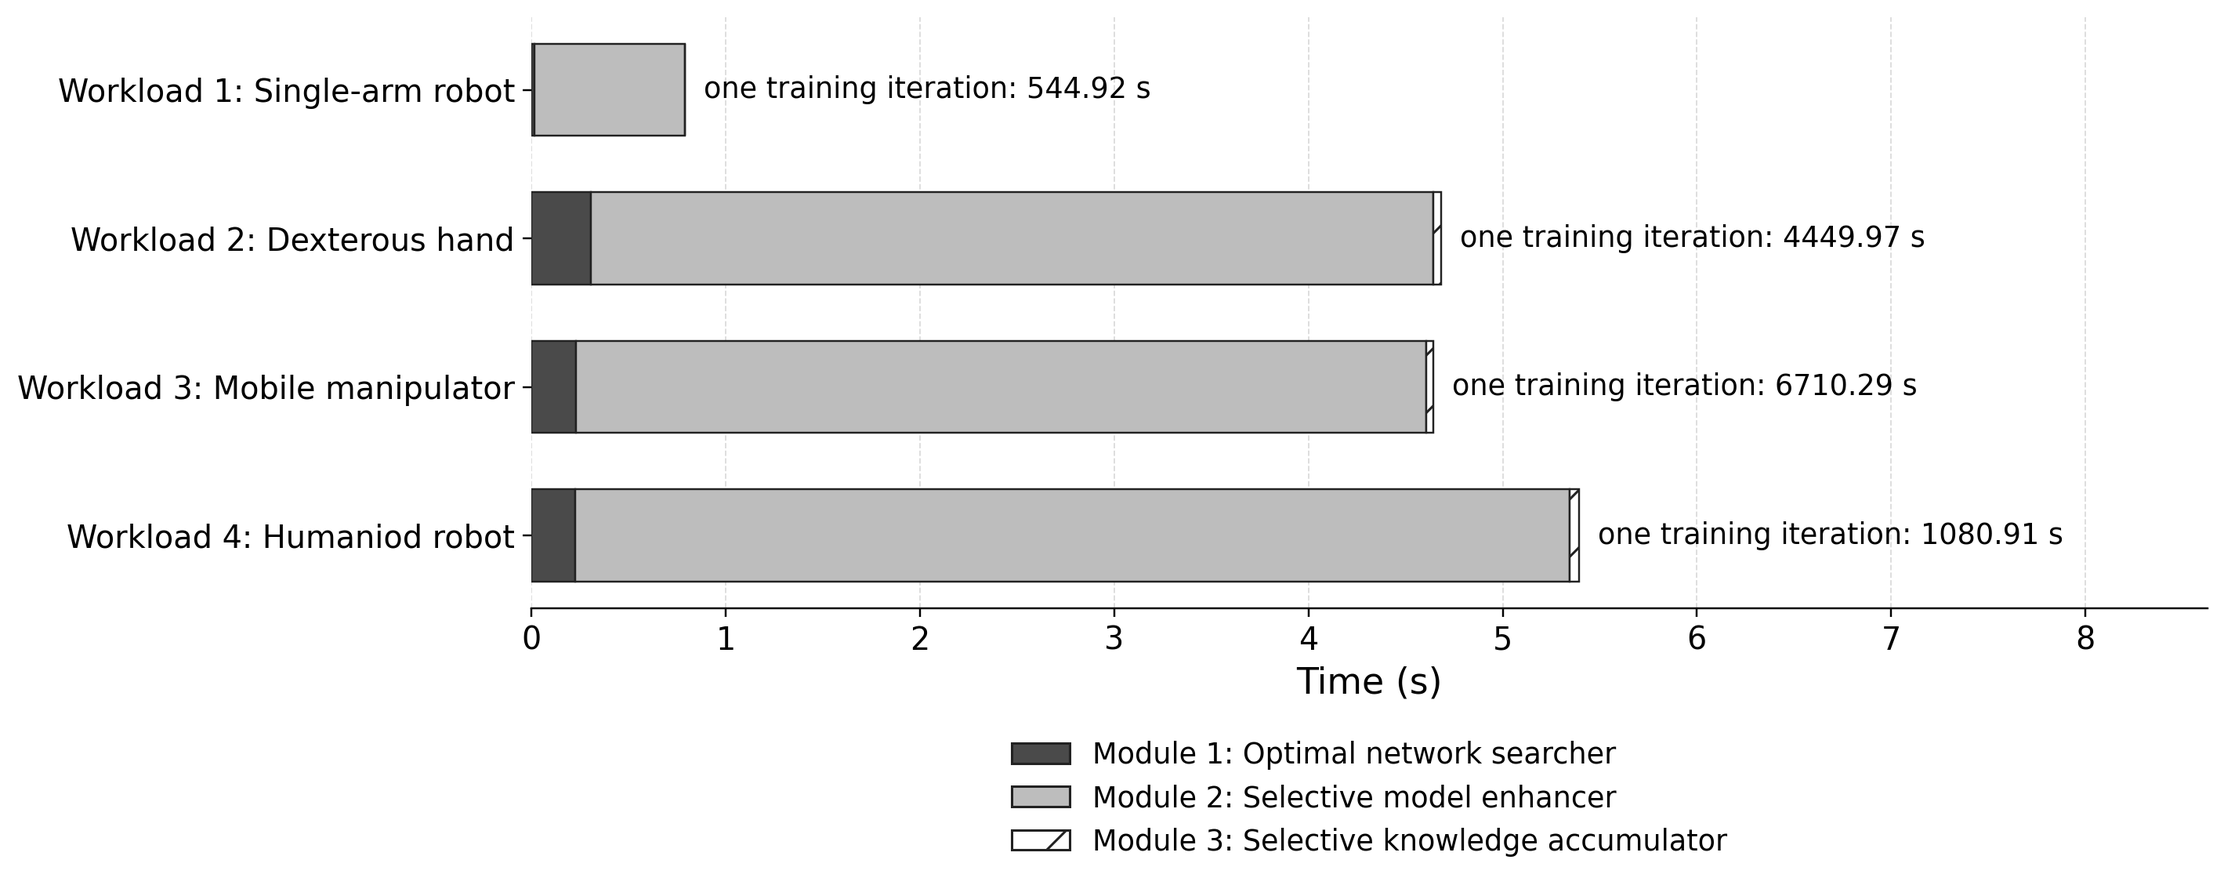
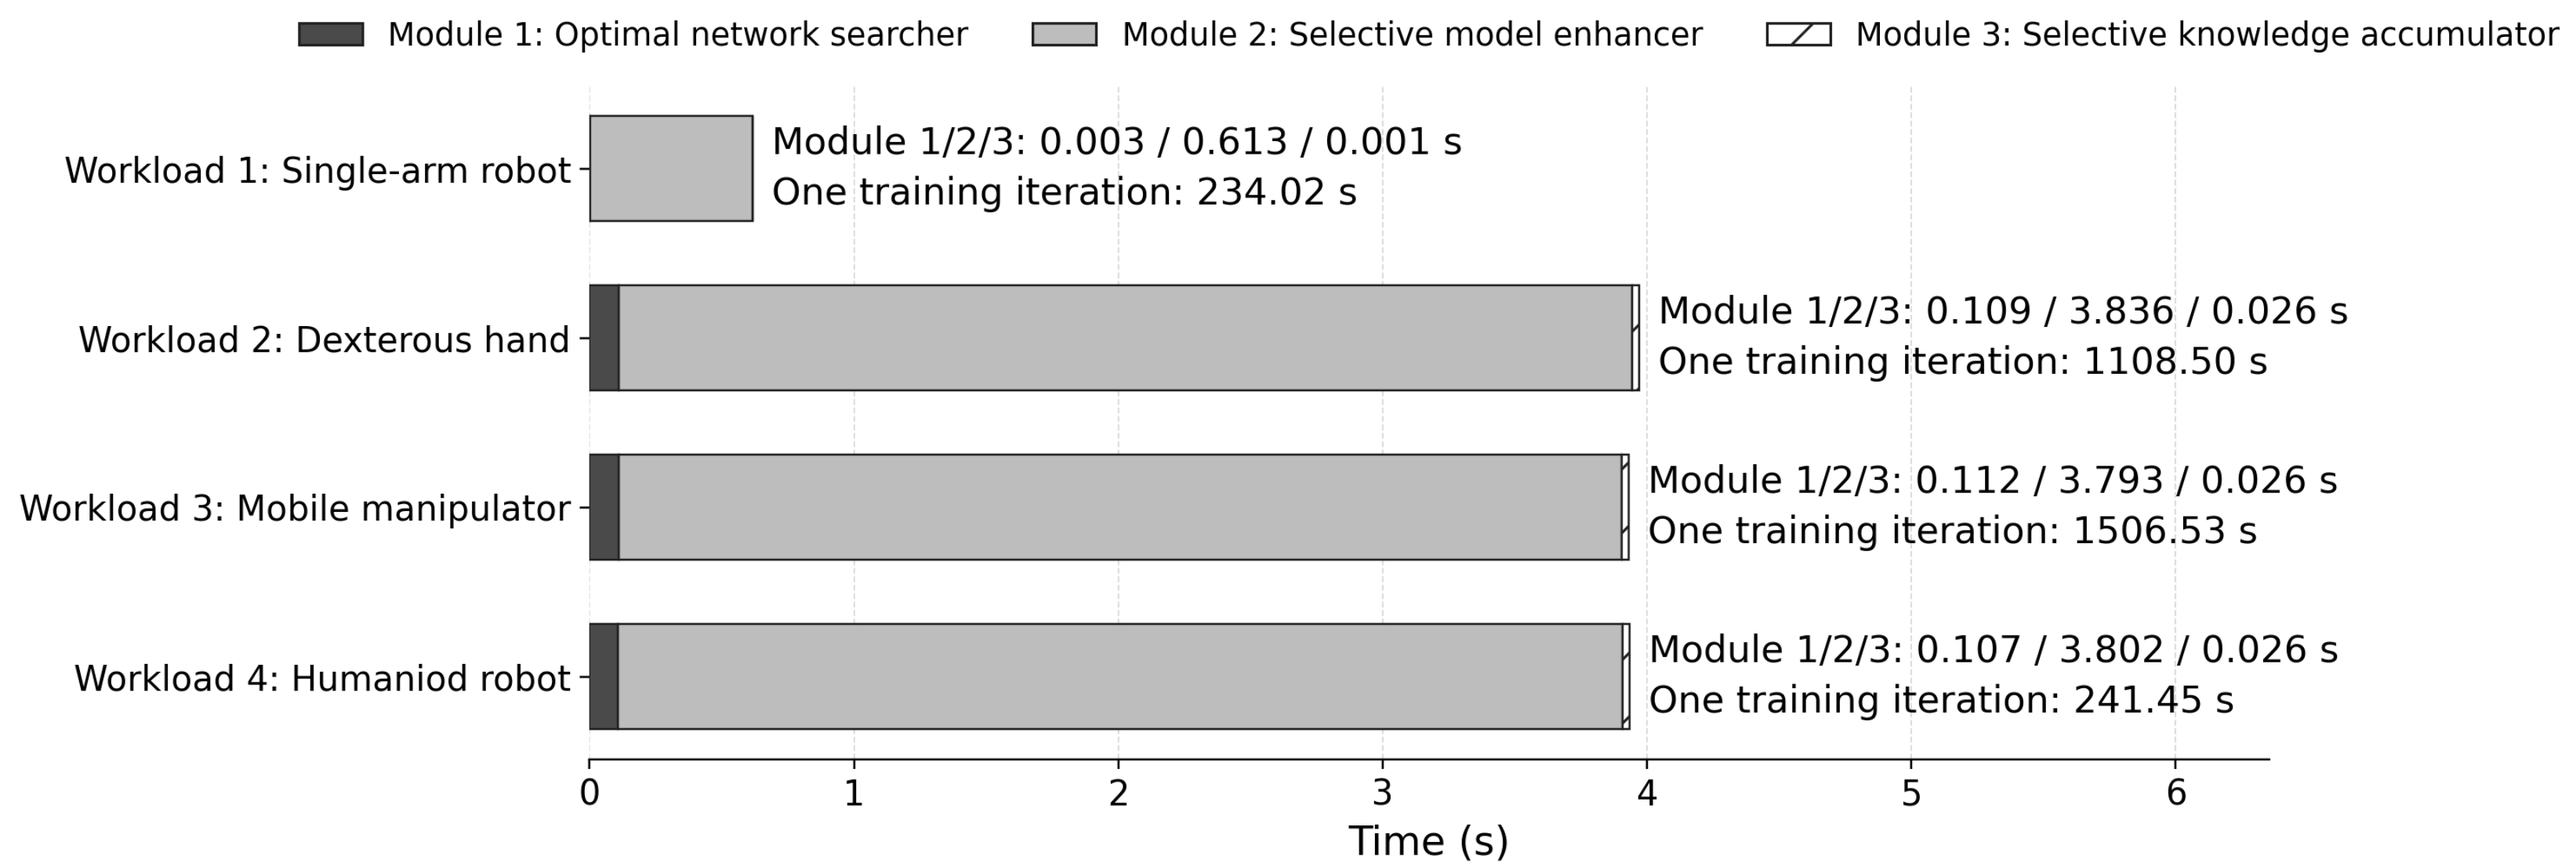
Refactor code structure for improved readability and maintainability

Changed region(s): [[0.0, 0.5226, 0.9922, 1.0], [0.0, 0.0, 0.9922, 0.4919]]

diff --git a/results_overhead.md b/results_overhead.md
@@ -1,29 +1,89 @@
-# Overhead Experiments Results
+# Example Running Outputs
 
-## Overheads Under The Same Accuracy
+## (Figure 9 and Tables 2/3) Overheads Under The Same Accuracy
 
-### Full-scale Run
+### Full run
 
-![alt text](imgs/2.2.2.1.png)
+#### Figure 9: Full-scale Example for Memory Footprint Comparison in a new task
 
-### MWE Run
+![Overhead Comparison - Full Run](imgs/2.2.2.1.png)
 
-![Overhead Comparison](imgs/2.2.2.1-mwe.jpg)
+#### Table 2: Full-scale Example for Average Energy Consumption (kJ) in each new task
 
-## Time Breakdown of VLASelect's Modules
+| Method | Time (h) - Single-arm | Time (h) - Dexterous | Time (h) - Mobile | Time (h) - Humanoid | Memory (GB) - Single-arm | Memory (GB) - Dexterous | Memory (GB) - Mobile | Memory (GB) - Humanoid | Energy (kJ) - Single-arm | Energy (kJ) - Dexterous | Energy (kJ) - Mobile | Energy (kJ) - Humanoid |
+| :--- | :---: | :---: | :---: | :---: | :---: | :---: | :---: | :---: | :---: | :---: | :---: | :---: |
+| **ConRFT** | 3.88 | 3.14 | 2.83 | 3.78 | 19.12 | 20.88 | 27.92 | 35.71 | 360.39 | 294.89 | 334.87 | 600.23 |
+| **FlaRe** | 2.56 | 3.60 | 2.92 | 2.91 | 23.14 | 31.39 | 27.49 | 33.70 | 295.13 | 384.55 | 384.75 | 492.30 |
+| **iRe-VLA** | 2.71 | 3.38 | 2.78 | 3.31 | 21.93 | 24.55 | 27.30 | 42.19 | 253.73 | 374.00 | 382.41 | 630.36 |
+| **Self-Improvement** | 4.52 | 3.48 | 2.86 | 3.95 | 20.93 | 23.52 | 27.53 | 42.11 | 547.71 | 309.29 | 337.90 | 763.35 |
+| **RLVLA** | 2.74 | 3.32 | 3.52 | 3.20 | 15.26 | 17.31 | 18.78 | 32.11 | 275.99 | 353.41 | 546.13 | 608.56 |
+| **VLA-RFT** | 3.20 | 3.39 | 2.39 | 4.07 | 28.54 | 30.99 | 29.04 | 60.02 | 319.56 | 412.78 | 341.89 | 704.55 |
+| **World-Env** | 3.10 | 3.63 | 3.87 | 4.16 | 25.66 | 30.05 | 29.27 | 60.23 | 279.42 | 429.66 | 505.86 | 738.14 |
+| **EdgeTA** | 4.59 | 3.17 | 2.84 | 3.12 | 17.54 | 19.23 | 21.12 | 37.87 | 523.80 | 382.06 | 440.83 | 467.90 |
+| **ConvertNet** | 4.82 | 3.67 | 2.69 | 2.73 | 15.26 | 17.31 | 18.78 | 32.11 | 478.14 | 434.77 | 430.10 | 510.83 |
+| **VLASelect** | 0.39 | 0.29 | 0.21 | 0.32 | 15.26 | 17.31 | 18.78 | 32.11 | 45.53 | 34.53 | 28.76 | 47.56 |
 
-### Full-scale Run
+#### Table 3: Full-scale Example for Overhead comparison under the same learning accuracy
 
-![alt text](imgs/2.2.2.2.png)
+| Method | Trial / Task | Single-arm robot | Dexterous hand | Mobile manipulator | Humanoid robot |
+| :--- | :---: | :---: | :---: | :---: | :---: |
+| **ConRFT** | Task 1<br>Task 2 | 342.37<br>403.51 | 346.31<br>274.05 | 499.84<br>291.68 | 787.19<br>570.22 |
+| **FlaRe** | Task 1<br>Task 2 | 318.06<br>254.18 | 477.07<br>317.51 | 461.29<br>379.37 | 671.17<br>452.06 |
+| **iRe-VLA** | Task 1<br>Task 2 | 383.33<br>213.81 | 530.53<br>204.04 | 505.40<br>273.55 | 661.88<br>564.21 |
+| **Self-Improvement** | Task 1<br>Task 2 | 551.76<br>473.14 | 416.37<br>293.83 | 497.49<br>297.81 | 801.52<br>673.49 |
+| **RLVLA** | Task 1<br>Task 2 | 326.26<br>206.67 | 360.71<br>314.32 | 573.44<br>466.58 | 622.44<br>458.46 |
+| **VLA-RFT** | Task 1<br>Task 2 | 323.69<br>277.80 | 433.42<br>280.17 | 374.09<br>257.39 | 795.60<br>632.21 |
+| **World-Env** | Task 1<br>Task 2 | 329.26<br>265.45 | 339.87<br>451.14 | 666.90<br>480.57 | 775.05<br>639.55 |
+| **EdgeTA** | Task 1<br>Task 2 | 349.40<br>549.99 | 383.21<br>282.31 | 464.28<br>355.50 | 629.97<br>444.50 |
+| **ConvertNet** | Task 1<br>Task 2 | 608.37<br>454.23 | 456.51<br>327.35 | 451.61<br>378.12 | 536.37<br>451.60 |
+| **VLASelect** | Task 1<br>Task 2 | 46.06<br>44.24 | 35.41<br>25.63 | 39.46<br>25.57 | 64.71<br>45.18 |
 
-### MWE Run
+---
 
-![Overhead Comparison](imgs/2.2.2.2-mwe.png)
+### Minimal working example
 
-## Time Breakdown of Sampling and Training for All Methods
+#### Figure 9: Minimal Working Example for Memory Footprint Comparison in a new task
 
-### Full-scale Run
-![Overhead Comparison](imgs/2.2.2.3.png)
+![Overhead Comparison - MWE](imgs/2.2.2.1-mwe.jpg)
 
-### MWE Run
-![Overhead Comparison](imgs/2.2.2.3-mwe.jpg)
+#### Table 2: Minimal Working Example for Average Energy Consumption (kJ) in each new task
+
+| Method | Time (h) - Single-arm | Time (h) - Dexterous | Time (h) - Mobile | Time (h) - Humanoid | Memory (GB) - Single-arm | Memory (GB) - Dexterous | Memory (GB) - Mobile | Memory (GB) - Humanoid | Energy (kJ) - Single-arm | Energy (kJ) - Dexterous | Energy (kJ) - Mobile | Energy (kJ) - Humanoid |
+| :--- | :---: | :---: | :---: | :---: | :---: | :---: | :---: | :---: | :---: | :---: | :---: | :---: |
+| **Self-Improvement** | 0.04 | 0.17 | 0.09 | 0.08 | 7.32 | 13.41 | 12.47 | 12.94 | 15.82 | 62.99 | 37.17 | 25.65 |
+| **VLA-RFT** | 0.03 | 0.08 | 0.07 | 0.07 | 8.48 | 13.09 | 11.07 | 11.21 | 13.83 | 27.52 | 26.83 | 25.24 |
+| **World-Env** | 0.03 | 0.07 | 0.08 | 0.08 | 9.77 | 13.03 | 10.25 | 11.12 | 12.98 | 23.96 | 33.92 | 33.02 |
+| **VLASelect** | 0.01 | 0.01 | 0.03 | 0.03 | 5.23 | 11.97 | 10.40 | 10.40 | 0.58 | 2.96 | 12.28 | 9.91 |
+
+#### Table 3: Minimal Working Example for Overhead comparison under the same learning accuracy
+
+| Method | Single-arm robot | Dexterous hand | Mobile manipulator | Humanoid robot |
+| :--- | :---: | :---: | :---: | :---: |
+| **Self-Improvement** | 15.82 | 62.99 | 37.17 | 26.22 |
+| **VLA-RFT** | 13.83 | 27.52 | 26.83 | 24.62 |
+| **World-Env** | 12.98 | 23.96 | 33.92 | 33.03 |
+| **VLASelect** | 0.68 | 11.37 | 12.28 | 2.58 |
+
+---
+
+## (Figure 10) Time Breakdown of VLASelect's Modules
+
+### Full run
+
+![Time Breakdown - Full Run](imgs/2.2.2.2.png)
+
+### Minimal working example
+
+![Time Breakdown - MWE](imgs/2.2.2.2-mwe.png)
+
+---
+
+## (Figure 11) Training Time Breakdown in Each Workload
+
+### Full run
+
+![Training Time Breakdown - Full Run](imgs/2.2.2.3.png)
+
+### Minimal working example
+
+![Training Time Breakdown - MWE](imgs/2.2.2.3-mwe.jpg)

diff --git a/results_discussion.md b/results_discussion.md
@@ -1,21 +1,19 @@
-# Discussion Experiments Results
+# Expected running outputs
 
-## ICL
+## Discussion 2: ICL (In-Context Learning)
 
+### Minimal working example
 ![alt text](./imgs/2.5.2.png)
 
-## Applicability to VLA models
 
-
-N/A: The original paper only provides qualitative justification without empirical data.
-
-## Maximum supported model size
+## Discussion 3: Maximum Supported Model Size
 
 | Source | Supported Model Size | Hardware / Environment |
 | --- | --- | --- |
-| **Paper** | Up to 11.3 GB (Xavier), Up to 24.0 GB (Orin) | Jetson Xavier / Jetson Orin |
-| **Testbed** | ~2.5–24.0 GB | Host with 32 GB VRAM |
+| **Full run** | Up to 11.3 GB (Xavier), Up to 24.0 GB (Orin) | Jetson Xavier / Jetson Orin |
+| **Minimal working example** | ~2.5–24.0 GB | Host with 32 GB VRAM |
 
-## Applicability to multi-agent scenarios
+## Discussion 4: Applicability to multi-agent scenarios
 
+### Minimal working example
 ![alt text](./imgs/2.2.4.5.png)

diff --git a/results_acc.md b/results_acc.md
@@ -1,21 +1,24 @@
-# Accuracy Experiments Results
+# Example Running Outputs
 
-## Accuracy Under Tasks/Environment Changes
+##  (Figure 7) Accuracy Under Tasks/Environment Changes
 
-### Full-scale Run
+### Full run
 
 ![Accuracy Comparison](imgs/2.2.1.1.png)
 
-### MWE Run
+### Minimal working example
 
-![Accuracy Comparison](imgs/2.2.1.1-mwe.png)
+![Accuracy Comparison](imgs/2.2.1.1-mwe.jpg)
 
-## Accuracy Under Available Resource Changes
+---
 
-### Full-scale Run
+##  (Figure 8) Accuracy Under Available Resource Changes
+
+### Full run
 
 ![Accuracy Comparison](imgs/2.2.1.2.png)
 
-### MWE Run
+### Minimal working example
 
-![Accuracy Comparison](imgs/2.2.1.2-mwe.png)
+![Accuracy Comparison](imgs/2.2.1.2-mwe.jpg)
+

diff --git a/model_support.md b/model_support.md
@@ -1,4 +1,4 @@
-# 3. Results for Supporting Various VLA Models, Scaling Strategies, and Knowledge Exchange Granularities
+# Example Running Outputs for Supporting Various VLA Models, Scaling Strategies, and Knowledge Exchange Granularities
 
 ## 3.1 VLA-Adapter Model Evaluation
 
@@ -14,6 +14,8 @@
 
 ![Knowledge exchange granularities](./imgs/3.1.3.png)
 
+---
+
 ## 3.2 TinyVLA Model Evaluation
 
 ### 3.2.1 Supporting the TinyVLA
@@ -27,6 +29,8 @@
 ### 3.2.3 Supporting different knowledge exchange granularities
 
 ![Knowledge exchange granularities](./imgs/3.2.3.png)
+
+---
 
 ## 3.3 EdgeVLA Model Evaluation
 

diff --git a/ablation_results.md b/ablation_results.md
@@ -1,15 +1,11 @@
-# Expected Results: Ablation Study
+# Example Running Outputs
 
-This document presents the expected ablation study results across different hardware environments.
+## (Figure 12) Design Choice Validation by Ablation
 
-## 1. Full-Scale Run
-
-Below are the ablation study results obtained on the standard training server:
+## Full run
 
 ![Ablation Results - Training Server](./imgs/2.2.3.png)
 
-## 2. MWE Run
-
-Below are the ablation study results evaluated under resource-constrained settings:
+## Minimal working example
 
 ![Ablation Results - Constrained Server](./imgs/2.2.3-mwe.jpg)
